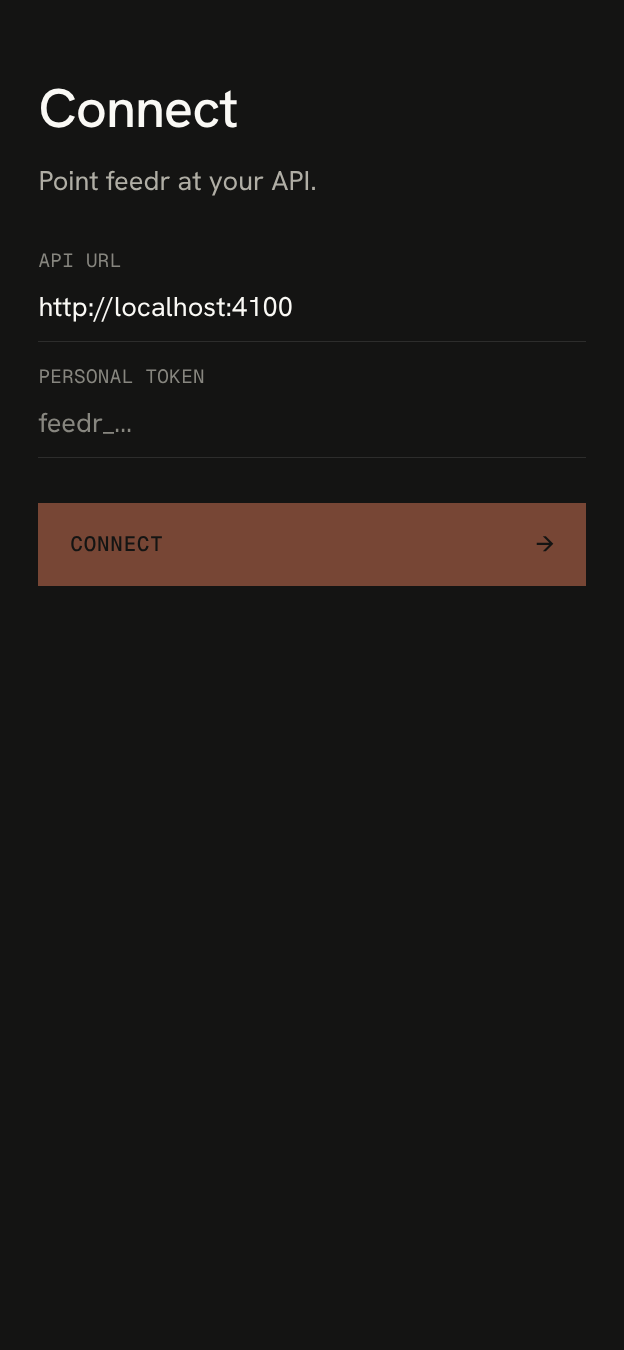
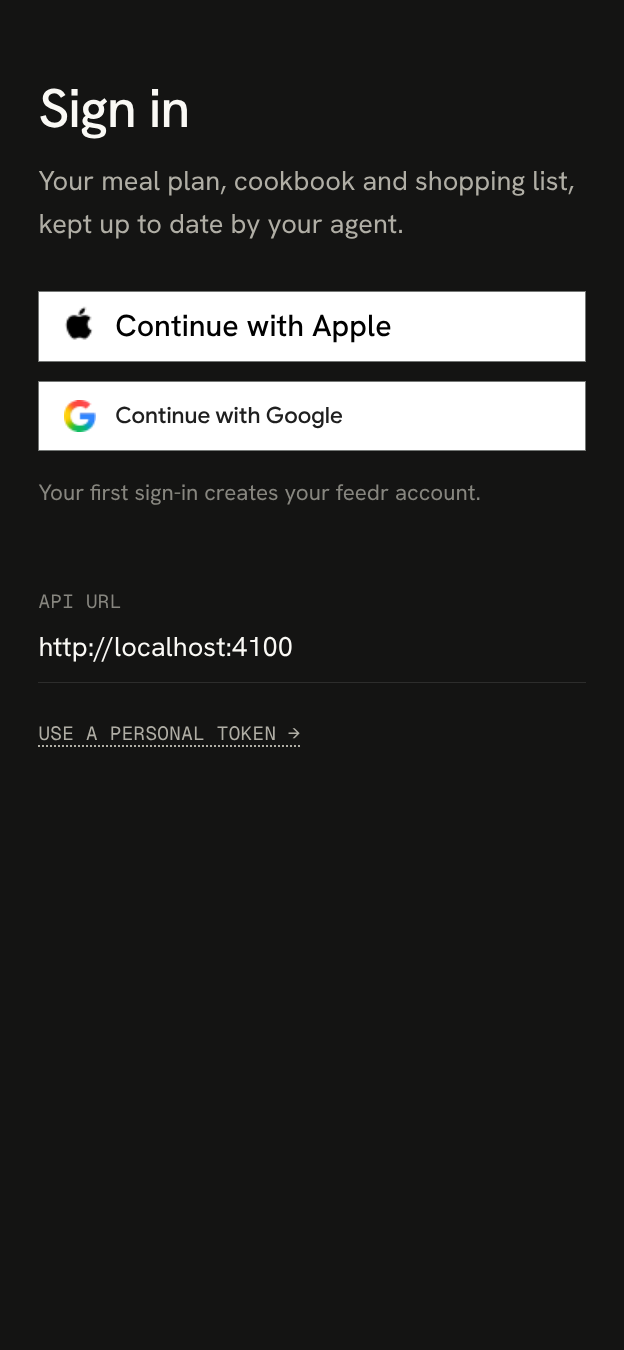
Add Sign in with Apple and brand-compliant sign-in buttons
The App Store's login rule (guideline 4.8) needs Sign in with Apple next to
Google, and both companies set rules for custom sign-in buttons. The sign-in
screen now offers "Continue with Apple" and "Continue with Google" through
Clerk, drawn with each brand's own logo artwork, colours, fonts and
proportions, at the same size and weight. The rest of the screen follows the
design guide. The setup wizard turns on Apple in Clerk and checks both.

diff --git a/apps/mobile/src/connect.tsx b/apps/mobile/src/connect.tsx
@@ -1,8 +1,9 @@
 import { useState } from "react";
-import { Platform } from "react-native";
+import { Image, Platform, Pressable, Text as RNText, View } from "react-native";
 import { useSSO } from "@clerk/expo";
 import { ErrorLine, Field, Gutter, PageHead, PrimaryButton, Screen, Text, TextAction, TopBar } from "./primitives";
 import { useStore } from "./store";
+import { sans } from "./theme";
 
 /** Runs an async action for a form, tracking whether it's busy and what went wrong. */
 function useAction() {
@@ -22,15 +23,88 @@ function useAction() {
   return { busy, error, run };
 }
 
+const brands = {
+  apple: { strategy: "oauth_apple", title: "Continue with Apple", name: "Apple" },
+  google: { strategy: "oauth_google", title: "Continue with Google", name: "Google" },
+} as const;
+type Brand = keyof typeof brands;
+
 /**
- * Google sign-in through Clerk's browser flow (works in Expo Go), then a connection that
- * uses the Clerk session instead of a personal token. The first sign-in creates the feedr
- * account on the API.
+ * A "Continue with Apple" or "Continue with Google" button, drawn to each company's rules for
+ * custom buttons. Apple sits next to Google to meet the App Store's login rule (guideline 4.8),
+ * and both companies ask that neither button be smaller or lighter than the other, so the two
+ * share one shape: 44 high, full width, square corners, white with a 1px #747775 stroke inside,
+ * and logos on the same axis so both titles start 48 in. Colours and fonts are the brands', not
+ * theme tokens, so the buttons look the same in light and dark. Titles ignore the system text
+ * size so they keep Apple's and Google's proportions to the fixed 44 height.
+ *
+ * - Apple: Apple's left-aligned Medium logo file at the button's full height, and the title at
+ *   43% of the height (19), black. The PNGs are Apple's, sized for 44pt buttons.
+ * - Google: the standard G at 20×20, 16 from the edge and 12 from the title, in Google Sans
+ *   Medium 14/20 #1F1F1F. The PNGs are Google's iOS G, rendered without the button around it.
  */
-function GoogleSignIn({ url }: { url: string }) {
+function BrandButton({ brand, onPress, disabled }: { brand: Brand; onPress: () => void; disabled: boolean }) {
+  const { title } = brands[brand];
+  return (
+    <Pressable
+      accessibilityRole="button"
+      accessibilityLabel={title}
+      aria-disabled={disabled}
+      disabled={disabled}
+      onPress={onPress}
+      style={{ height: 44, flexDirection: "row", alignItems: "center", backgroundColor: "#ffffff" }}
+    >
+      {brand === "apple" ? (
+        <>
+          <Image
+            source={require("../assets/sign-in/apple-logo.png")}
+            style={{ width: 31, height: 44, marginLeft: 10, marginRight: 7 }}
+          />
+          <RNText allowFontScaling={false} style={{ fontFamily: sans[500], fontSize: 19, color: "#000000" }}>
+            {title}
+          </RNText>
+        </>
+      ) : (
+        <>
+          <Image
+            source={require("../assets/sign-in/google-g.png")}
+            style={{ width: 20, height: 20, marginLeft: 16, marginRight: 12 }}
+          />
+          <RNText
+            allowFontScaling={false}
+            style={{ fontFamily: "GoogleSans_500Medium", fontSize: 14, lineHeight: 20, color: "#1f1f1f" }}
+          >
+            {title}
+          </RNText>
+        </>
+      )}
+      {/* The stroke sits on top, inside the edge, so Apple's logo file can fill the full height. */}
+      <View
+        style={{
+          position: "absolute",
+          top: 0,
+          right: 0,
+          bottom: 0,
+          left: 0,
+          borderWidth: 1,
+          borderColor: "#747775",
+          pointerEvents: "none",
+        }}
+      />
+    </Pressable>
+  );
+}
+
+/**
+ * Apple or Google sign-in through Clerk's browser flow (works in Expo Go), then a connection that
+ * uses the Clerk session instead of a personal token. The first sign-in creates the feedr account
+ * on the API.
+ */
+function SocialSignIn({ url }: { url: string }) {
   const { startSSOFlow } = useSSO();
   const { clerk, connect } = useStore();
   const { busy, error, run } = useAction();
+  const [brand, setBrand] = useState<Brand>("apple");
   // Signed in to Clerk already (e.g. the API was unreachable last time): just connect.
   if (clerk?.signedIn)
     return (
@@ -38,38 +112,44 @@ function GoogleSignIn({ url }: { url: string }) {
         <PrimaryButton
           label={busy ? "Connecting…" : "Connect"}
           disabled={busy || !url}
-          style={{ marginTop: 28 }}
           onPress={() => void run(() => connect(url))}
         />
         <ErrorLine error={error} />
       </>
     );
 
+  function signIn(next: Brand) {
+    setBrand(next);
+    void run(async () => {
+      const { createdSessionId, setActive, signUp } = await startSSOFlow({ strategy: brands[next].strategy });
+      if (createdSessionId && setActive) {
+        await setActive({ session: createdSessionId });
+        await connect(url);
+      } else if (signUp?.status === "missing_requirements") {
+        throw new Error(`Clerk needs more details to finish sign-up: ${signUp.missingFields.join(", ")}.`);
+      }
+      // Otherwise the browser was closed: nothing to do.
+    });
+  }
+
+  // The brands' titles can't change, so progress shows on a line underneath instead.
   return (
     <>
-      <PrimaryButton
-        label={busy ? "Signing in…" : "Continue with Google"}
-        disabled={busy || !url}
-        style={{ marginTop: 28 }}
-        onPress={() =>
-          void run(async () => {
-            const { createdSessionId, setActive, signUp } = await startSSOFlow({ strategy: "oauth_google" });
-            if (createdSessionId && setActive) {
-              await setActive({ session: createdSessionId });
-              await connect(url);
-            } else if (signUp?.status === "missing_requirements") {
-              throw new Error(`Clerk needs more details to finish sign-up: ${signUp.missingFields.join(", ")}.`);
-            }
-            // Otherwise the browser was closed: nothing to do.
-          })
-        }
-      />
+      <View style={{ gap: 12 }}>
+        <BrandButton brand="apple" disabled={busy || !url} onPress={() => signIn("apple")} />
+        <BrandButton brand="google" disabled={busy || !url} onPress={() => signIn("google")} />
+      </View>
+      {busy && (
+        <Text variant="label" style={{ paddingTop: 16 }}>
+          Signing in with {brands[brand].name}…
+        </Text>
+      )}
       <ErrorLine error={error} />
     </>
   );
 }
 
-/** The first screen: where the API is and how to sign in to it. */
+/** The first screen: how to sign in, and where the API is. */
 export function Connect() {
   const { connect, clerk, error: storedError } = useStore();
   // scripts/setup.sh writes EXPO_PUBLIC_API_URL, so most people never type the URL.
@@ -77,24 +157,14 @@ export function Connect() {
     process.env.EXPO_PUBLIC_API_URL ?? (Platform.OS === "web" ? "http://localhost:4100" : ""),
   );
   const [token, setToken] = useState("");
-  // Lead with Google when Clerk is configured; the personal token is the fallback.
+  // Lead with Apple and Google when Clerk is configured; the personal token is the fallback.
   const [withToken, setWithToken] = useState(!clerk);
   const { busy, error, run } = useAction();
   return (
     <Screen>
       <TopBar />
-      <PageHead title="Connect" lede="Sign in to your feedr API." />
+      <PageHead title="Sign in" lede="Your meal plan, cookbook and shopping list, kept up to date by your agent." />
       <Gutter>
-        <Field
-          label="API URL"
-          placeholder="http://192.168.1.10:4100"
-          value={url}
-          onChangeText={setUrl}
-          autoCapitalize="none"
-          autoCorrect={false}
-          keyboardType="url"
-          style={{ paddingTop: 0 }}
-        />
         {withToken ? (
           <>
             <Field
@@ -105,6 +175,7 @@ export function Connect() {
               autoCapitalize="none"
               autoCorrect={false}
               secureTextEntry
+              style={{ paddingTop: 0 }}
             />
             <ErrorLine error={error ?? storedError} />
             <PrimaryButton
@@ -116,17 +187,27 @@ export function Connect() {
           </>
         ) : (
           <>
-            <GoogleSignIn url={url} />
+            <SocialSignIn url={url} />
             <ErrorLine error={storedError} />
             <Text variant="secondary" style={{ paddingTop: 16 }}>
               Your first sign-in creates your feedr account.
             </Text>
           </>
         )}
+        <Field
+          label="API URL"
+          placeholder="http://192.168.1.10:4100"
+          value={url}
+          onChangeText={setUrl}
+          autoCapitalize="none"
+          autoCorrect={false}
+          keyboardType="url"
+          style={{ marginTop: 36 }}
+        />
         {clerk && (
           <TextAction
-            label={withToken ? "Sign in with Google →" : "Use a personal token →"}
-            style={{ marginTop: 20 }}
+            label={withToken ? "Sign in with Apple or Google →" : "Use a personal token →"}
+            style={{ marginTop: 24 }}
             onPress={() => setWithToken(!withToken)}
           />
         )}

diff --git a/apps/mobile/src/theme.ts b/apps/mobile/src/theme.ts
@@ -2,6 +2,7 @@ import { Platform, useColorScheme, type TextStyle } from "react-native";
 import { GeistMono_400Regular } from "@expo-google-fonts/geist-mono/400Regular";
 import { GeistMono_400Regular_Italic } from "@expo-google-fonts/geist-mono/400Regular_Italic";
 import { GeistMono_500Medium } from "@expo-google-fonts/geist-mono/500Medium";
+import { GoogleSans_500Medium } from "@expo-google-fonts/google-sans/500Medium";
 import { HankenGrotesk_400Regular } from "@expo-google-fonts/hanken-grotesk/400Regular";
 import { HankenGrotesk_500Medium } from "@expo-google-fonts/hanken-grotesk/500Medium";
 import { HankenGrotesk_600SemiBold } from "@expo-google-fonts/hanken-grotesk/600SemiBold";
@@ -43,6 +44,8 @@ export const fonts = {
   GeistMono_400Regular,
   GeistMono_400Regular_Italic,
   GeistMono_500Medium,
+  /** Only for the "Continue with Google" button, which Google's branding rules set in Google Sans. */
+  GoogleSans_500Medium,
   HankenGrotesk_400Regular,
   HankenGrotesk_500Medium,
   HankenGrotesk_600SemiBold,

diff --git a/apps/mobile/src/store.tsx b/apps/mobile/src/store.tsx
@@ -136,7 +136,7 @@ export function StoreProvider({
     const auth = personalToken !== undefined ? "token" : "clerk";
     const token = personalToken?.trim() ?? (await clerk?.getToken());
     if (!token)
-      throw new Error("Enter a personal token or sign in with Google.");
+      throw new Error("Enter a personal token or sign in with Apple or Google.");
     const me = await request<Me>(url, token, "/me");
     const c: Connection = {
       url,

diff --git a/apps/mobile/README.md b/apps/mobile/README.md
@@ -12,7 +12,7 @@ npm run dev:mobile
 npm run dev:mobile:web -- --port 8082
 ```
 
-Open it in an Expo Go release that supports SDK 58. Run `./scripts/setup.sh` from the repo root first: it writes `.env.local` here with the Clerk publishable key and `EXPO_PUBLIC_API_URL`, so the Connect screen arrives with the API address filled in and leads with "Continue with Google". A `feedr_…` personal token still works through "Use a personal token". `localhost` only works when the browser and the API run on the same computer.
+Open it in an Expo Go release that supports SDK 58. Run `./scripts/setup.sh` from the repo root first: it writes `.env.local` here with the Clerk publishable key and `EXPO_PUBLIC_API_URL`, so the Sign in screen arrives with the API address filled in and leads with "Continue with Apple" and "Continue with Google". A `feedr_…` personal token still works through "Use a personal token". `localhost` only works when the browser and the API run on the same computer.
 
 ## Navigation
 
@@ -38,7 +38,7 @@ Home ─┬─ Meal plan ─┬─ Recipe ─┬─ Cook mode ── Dish-up
 | `/shopping` | Shopping list for the week in `week` (its Monday), or this week. |
 | `/people`, `/people/[id]` | People, agent tokens and the connection; the person form (`new` adds one). |
 
-Connect isn't a route. The root layout shows it until there is a saved connection.
+Sign in (`src/connect.tsx`) isn't a route. The root layout shows it until there is a saved connection.
 
 ## Structure
 
@@ -56,8 +56,9 @@ Connect isn't a route. The root layout shows it until there is a saved connectio
 - **Ingredient terms.** Steps mark the ingredients they are linked to. A step with no links falls back to matching ingredient names in its text.
 - **Timers** run only while cook mode is open. Each step keeps its own, so going back to a step shows its countdown. There is no background alarm.
 - **Storage.** A personal connection is kept in SecureStore on iOS and in AsyncStorage on web. Shopping ticks are kept in AsyncStorage per server, account and week. Disconnecting clears the connection and the query cache, and leaves the ticks.
-- **Fonts.** Hanken Grotesk and Geist Mono are loaded from `@expo-google-fonts` before the splash screen hides. Underline offsets only apply on web, because React Native can't move an underline on iOS.
-- **Clerk.** Google sign-in through `useSSO` (a browser flow, so it works in Expo Go), set up by `scripts/setup.sh` (keys in `.env.local`, see `.env.example`). The wizard allowlists the Expo Go redirect `exp://<LAN IP>:8081/--/sso-callback` in Clerk. Without a publishable key the app falls back to personal tokens only. Native Clerk client sync is off because the app uses no Clerk native components.
+- **Fonts.** Hanken Grotesk and Geist Mono are loaded from `@expo-google-fonts` before the splash screen hides, with Google Sans Medium for the Google button only. Underline offsets only apply on web, because React Native can't move an underline on iOS.
+- **Clerk.** Apple and Google sign-in through `useSSO` (a browser flow, so it works in Expo Go), set up by `scripts/setup.sh` (keys in `.env.local`, see `.env.example`). The wizard allowlists the Expo Go redirect `exp://<LAN IP>:8081/--/sso-callback` in Clerk. Without a publishable key the app falls back to personal tokens only. Native Clerk client sync is off because the app uses no Clerk native components.
+- **Sign-in buttons.** feedr offers Sign in with Apple alongside Google to meet the App Store's login rule (guideline 4.8), and both companies set rules for custom buttons. "Continue with Apple" and "Continue with Google" follow them: logos from Apple's and Google's own kits (`assets/sign-in`), the brands' fixed colours and fonts, an Apple title at 43% of the 44 height, and the same size and weight for both. They are the one place the app's tokens and type roles don't apply; the comment on `BrandButton` lists each rule.
 
 ## Checks
 

diff --git a/README.md b/README.md
@@ -16,7 +16,7 @@ Requires Node 24, Docker, jq and an iPhone with Expo Go. Run the setup wizard an
 ./scripts/setup.sh
 ```
 
-It takes about five minutes and says at every stage what it's doing and what, if anything, you need to do. It installs packages and sets up Postgres, then uses the Clerk CLI to create a Clerk app called "feedr" with Google sign-in, writing the keys to `.env` and `apps/mobile/.env.local`. It saves the address your phone uses for the API, starts the API, and waits while you sign in with Google on your phone. Finally it offers to load demo data. Re-running it is safe: finished steps are detected and skipped.
+It takes about five minutes and says at every stage what it's doing and what, if anything, you need to do. It installs packages and sets up Postgres, then uses the Clerk CLI to create a Clerk app called "feedr" with Apple and Google sign-in, writing the keys to `.env` and `apps/mobile/.env.local`. It saves the address your phone uses for the API, starts the API, and waits while you sign in with Apple or Google on your phone. Finally it offers to load demo data. Re-running it is safe: finished steps are detected and skipped.
 
 Day to day, once setup is done:
 
@@ -25,7 +25,7 @@ npm run dev:api        # or: docker compose up -d api
 npm run dev:mobile     # scan the QR code with the Camera app to open it in Expo Go
 ```
 
-Google sign-in needs your phone on the same Wi-Fi as this computer, without Expo's `--tunnel`, because Clerk only sends the sign-in back to the Expo Go address the wizard allowed. The app talks to the API over plain HTTP, so on a network you don't control, anyone else on it can read your session or token: use the Tailscale address there, which is encrypted. To run the app in a browser, use `npm run dev:mobile:web`.
+Apple and Google sign-in need your phone on the same Wi-Fi as this computer, without Expo's `--tunnel`, because Clerk only sends the sign-in back to the Expo Go address the wizard allowed. The app talks to the API over plain HTTP, so on a network you don't control, anyone else on it can read your session or token: use the Tailscale address there, which is encrypted. To run the app in a browser, use `npm run dev:mobile:web`.
 
 There is no tab bar. Home shows tonight's dinner, with a button straight into cook mode, above an index of the four sections:
 

diff --git a/design/BUILD.md b/design/BUILD.md
@@ -185,11 +185,17 @@ the design language:
 - **Connection.** A section showing the API URL in mono ink3, with a `TextAction`
   "Disconnect".
 
-**Connect**.
-- **Page head.** "Connect" with the lede "Point feedr at your API."
-- **Fields.** Hairline-ruled fields for the API URL and the personal token.
-- **Actions.** A `PrimaryButton` "Connect". Sign-in with Clerk is a `TextAction` when it's
-  configured.
+**Sign in** (Connect).
+- **Page head.** "Sign in" with the lede "Your meal plan, cookbook and shopping list, kept up
+  to date by your agent."
+- **Actions.** When Clerk is configured, "Continue with Apple" and "Continue with Google",
+  stacked 12 apart. These are the one exception to the tokens and type roles: Apple and Google
+  set the logo, colours, fonts and proportions, and Apple is there to meet the App Store's
+  login rule (guideline 4.8). Both are 44 high, full width, white with a 1px `#747775` stroke, square
+  corners, logos on one axis. Progress shows as a mono caps line under them, since the brands'
+  titles can't change. Without Clerk, or through the "Use a personal token" `TextAction`, a
+  personal token field and a `PrimaryButton` "Connect" take their place.
+- **Fields.** A hairline-ruled API URL field below the actions, filled in by the setup wizard.
 
 ## Data changes
 
